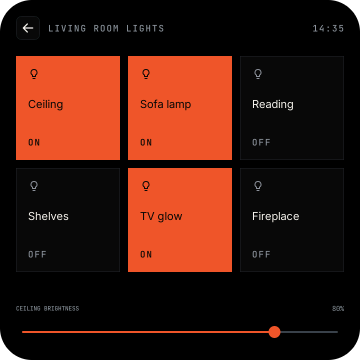
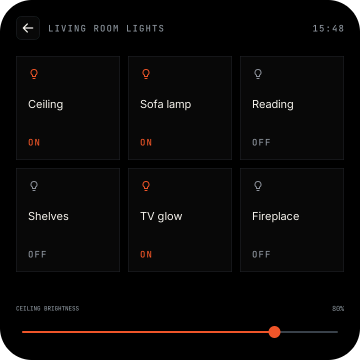
Light cards keep the card surface; taps paint in the panel's own theme and accent
- Entity tile: back to the approved look. On shows in the icon (accent) and the
  state (accent text) on the normal card surface; no accent fill. The contrast
  pairs go back to match.
- A tap or an update painted from the global stage theme, not the panel's look:
  on a panel set to another theme an off card drew the other theme's surface
  (black on a light panel), and a card tapped on after an accent change kept
  the default accent. A panel (one device) now keeps fw::T on its look after
  every build and on a theme or accent change, so every component's later paint
  uses the current colours; fw::theme_of(obj) gives the theme an object was
  built in, and the entity tile uses it.
- Functional tests: on and off keep the surface (update and taps both ways);
  a panel theme unlike the stage keeps the panel's surface; on -> off -> another
  accent -> on shows the new accent, and a card lit before the change follows it.
- Docs: the living room lights example screenshot again; Updates entry.

Changed region(s): [[0.0306, 0.1528, 0.6417, 0.7639], [0.8861, 0.0611, 0.9472, 0.0917]]

diff --git a/renderer/components/entity_tile.cpp b/renderer/components/entity_tile.cpp
@@ -3,14 +3,12 @@
 // agent Tile (the same box, padding, press look and two-line title), with an entity icon in place of the mascot.
 //   box      lay::tile_w x tile_h (208 x 208 / 136 x 136), surface fill, 1 px line border, radius rad::tile,
 //            padding lay::tile_pad - hair (children count from the outer edge, as the Tile); flex column
-//   on       lit: the box filled st::on_fill (accent, = the slider fill) with an accent border, icon / name / status in
-//            st::on_label (on-accent); pressed while on = accent-press
-//   icon     ic::icon (24 / 16): text-dim, on-accent while on; top-left on the padding line
+//   icon     ic::icon (24 / 16): text-dim, or st::on_mark (accent) while on; top-left on the padding line
 //   (grow)
 //   label    screen type body, text, up to two lines in a box of 2 x the body box (Tile title), ellipsis
 //   gap      space 5 (16 / 12, Tile)
-//   status   type label (caps), one line, a fixed box: the state ("Off", "64%", "Open"); on-accent while on, else
-//            text-dim
+//   status   type label (caps), one line, a fixed box: the state ("Off", "64%", "Open"); st::on_ink (accent-text) while
+//            on, else text-dim
 // Props: icon (a UI or screen icon name), label, status, on (bool), act toggle | open | none (what a tap does: the
 // sound and the instant look; none = read-only, a Home sensor tile: not clickable, no press look), state default | pressed | unavailable.
 // Tap (states.json): act toggle = the tile shows the other side at once (Motion toggle fade, like a tap on a Toggle)
@@ -42,23 +40,19 @@ lv_obj_t *part(lv_obj_t *c, int i) { return lv_obj_get_child(c, i); }
 // the look the props ask for: user flag USER_3 = on
 bool is_on(lv_obj_t *c) { return lv_obj_has_flag(c, LV_OBJ_FLAG_USER_3); }
 void paint(lv_obj_t *c, bool on, bool quiet) {
-  const fw::Theme &t = *fw::T;
+  const fw::Theme &t = *fw::theme_of(c);  // a tap / update paints after the build: the tile's own theme, not fw::T
   lv_obj_set_flag(c, LV_OBJ_FLAG_USER_3, on);
   if (lv_obj_has_state(c, ST_OFF)) return;
-  // on = lit: filled st::on_fill (accent, as the slider fill), every ink st::on_label (on-accent); pressed = accent-press
-  const lv_color_t ic = on ? fw::st::on_label(t) : t.text_dim, tx = on ? fw::st::on_label(t) : t.text_dim;
-  const lv_color_t ti = on ? fw::st::on_label(t) : t.text;
-  const bool p_fill = !lv_obj_has_flag(c, LV_OBJ_FLAG_USER_1);  // USER_1 = press style "border" (no press fill)
-  auto apply = [&] {
+  const lv_color_t ic = on ? fw::st::on_mark(t) : t.text_dim, tx = on ? fw::st::on_ink(t) : t.text_dim;
+  if (quiet) {
     fw::icon_colour(part(c, 0), ic);
-    lv_obj_set_style_text_color(part(c, 2), ti, 0);
     lv_obj_set_style_text_color(part(c, 4), tx, 0);
-    lv_obj_set_style_bg_color(c, on ? fw::st::on_fill(t) : t.surface, 0);
-    lv_obj_set_style_border_color(c, on ? fw::st::on_fill(t) : t.line, 0);
-    lv_obj_set_style_bg_color(c, on ? t.accent_press : p_fill ? fw::st::pressed_tint(t) : t.surface, LV_STATE_PRESSED);
-  };
-  if (quiet) { apply(); return; }
-  fw::st::restyle(c, apply);
+    return;
+  }
+  fw::st::restyle(c, [&] {
+    fw::icon_colour(part(c, 0), ic);
+    lv_obj_set_style_text_color(part(c, 4), tx, 0);
+  });
 }
 // on: a bool, or a state word "on" (a bind's map: a cover's open)
 bool on_of(fw::Props p) { return p["on"].is<bool>() ? p["on"].as<bool>() : !strcmp(p["on"] | "", "on"); }
@@ -82,7 +76,6 @@ void fill(lv_obj_t *c, fw::Props p) {
   const lv_style_selector_t SEL[3] = {0, LV_STATE_PRESSED, ST_OFF};
   const char *press = p["press"] | fw::st::PRESS_STYLE;
   const bool p_fill = strcmp(press, "border") != 0, p_border = strcmp(press, "fill") != 0;
-  lv_obj_set_flag(c, LV_OBJ_FLAG_USER_1, !p_fill);
   const lv_color_t BG[3] = {t.surface, p_fill ? fw::st::pressed_tint(t) : t.surface, t.surface};
   const lv_color_t BD[3] = {t.line, p_border ? fw::st::pressed_tint_line(t) : fw::st::pressed_line(t), t.line};
   for (int i = 0; i < 3; i++) {

diff --git a/renderer/core/device.cpp b/renderer/core/device.cpp
@@ -187,7 +187,7 @@ void run(lv_timer_t *t) {
   show(d, d->stack.back(), items);
   const char *tr = setting("transition");
   if (!items.empty() && !(tr && !strcmp(tr, "instant"))) rise(items.data(), (int) items.size(), home_dir);
-  T = was;
+  T = devices.size() == 1 ? d->theme : was;  // a panel (one device): fw::T stays its look for taps / fades
   emit(d->root, "screen", base_of(d->stack.back()).c_str());  // the host may mirror it (URL, HA); not a tap
 }
 void queue(lv_obj_t *in, Op op, const char *id) {
@@ -282,7 +282,7 @@ void restyle_now(Device *d) {
   T = d->theme;
   std::vector<lv_obj_t *> items;
   show(d, d->stack.back(), items);
-  T = was;
+  T = devices.size() == 1 ? d->theme : was;  // a panel (one device): fw::T stays its look for taps / fades
   root = d->screen && lv_obj_get_child_count(d->screen) ? lv_obj_get_child(d->screen, 0) : nullptr;
   if (root && idx >= 0 && idx < (int32_t) lv_obj_get_child_count(root) && y > 0) {
     lv_obj_t *k = lv_obj_get_child(root, idx);
@@ -316,6 +316,7 @@ void apply(int k, From from) {
       const Theme *t = look(d->stage);
       if (t != d->theme) {
         d->theme = t;
+        if (devices.size() == 1) T = t;  // taps / fades paint from fw::T after the build: the panel's look now
         if (!d->restyle) d->restyle = lv_timer_create(restyle_tick, 30, d);
         d->restyle_at = lv_tick_get();
         continue;  // the rebuild shows every value anyway
@@ -331,7 +332,7 @@ void apply(int k, From from) {
       Quiet q;
       update_child(find("settings"), root, p.as<Props>());
     }
-    T = was;
+    T = devices.size() == 1 ? d->theme : was;  // a panel (one device): fw::T stays its look for taps / fades
   }
 }
 }  // namespace
@@ -375,8 +376,12 @@ lv_obj_t *mount(lv_obj_t *parent, const char *start) {
   d->stack.push_back(s);
   std::vector<lv_obj_t *> items;
   show(d, s, items);  // the first screen cut in (no rise: the panel just shows it)
-  T = was;
+  T = devices.size() == 1 ? d->theme : was;  // a panel (one device): fw::T stays its look for taps / fades
   return d->root;
+}
+const Theme *theme_at(lv_obj_t *o) {
+  for (Device *d : devices) if (d->root == o) return d->theme;
+  return nullptr;
 }
 void toast(Props t) {
   const bool top = store().v[index_of("toastPosition")] != "bottom";
@@ -385,7 +390,7 @@ void toast(Props t) {
     const Theme *was = T;
     T = d->theme;  // built in the device's look (fw::T is global)
     toasts::push(d->toasts, t, top);
-    T = was;
+    T = devices.size() == 1 ? d->theme : was;  // a panel (one device): fw::T stays its look for taps / fades
   }
 }
 void reload(const char *id) {

diff --git a/renderer/core/fw_core.cpp b/renderer/core/fw_core.cpp
@@ -373,6 +373,15 @@ void guard_taps() {  // every pointer indev once (the WASM stages and the panel'
   }
 }
 }  // namespace
+// the theme o was built in: its device's look (dev::theme_at), else the stage it was built on, else fw::T. For code that
+// paints after the build (a tap, an update): fw::T is global and then holds whichever stage was built last.
+const Theme *theme_of(lv_obj_t *o) {
+  for (lv_obj_t *x = o; x; x = lv_obj_get_parent(x)) {
+    if (const Theme *d = dev::theme_at(x)) return d;
+    if (Built *b = built_of(x, false); b && b->t) return b->t;
+  }
+  return T;
+}
 
 // clean `scr`, make it the Facet screen (bg token, flex column, centred) and build `comp` with `props` on it
 const char *render(lv_obj_t *scr, const char *comp, const char *props, bool light, int accent) {

diff --git a/renderer/core/device.h b/renderer/core/device.h
@@ -65,6 +65,7 @@ void settings_json(std::string &out);
 std::string restore(const char *json, From from);  // a backup's values through set(); "" = ok, else the first error
 void set_daylight(int day);                          // the sun for theme auto: 1 day, 0 night, -1 unknown
 const Theme *look(const Theme *stage);               // the theme the device shows over a stage theme
+const Theme *theme_at(lv_obj_t *o);                  // o is a device root: the look it is built in, else nullptr
 void on_look(void (*cb)());  // the look may have changed (theme / accent set, the sun): hosts redraw what they show
 
 // hardware button (a panel's physical key, e.g. the Waveshare's BOOT key; Darren 2026-10-24): the "Contextual" action.

diff --git a/renderer/core/fw.h b/renderer/core/fw.h
@@ -25,6 +25,8 @@ namespace fw {
 extern const Theme *T;  // the theme of the stage being built
 // any theme (e.g. to show dark and light side by side); accent_set = index into tokens::ACCENTS, <0 = default
 const Theme *theme(bool light, int accent_set = -1);
+// the theme an object was built in (its device's look, else its stage's): use it, not fw::T, when painting after the build
+const Theme *theme_of(lv_obj_t *o);
 
 #ifdef FW_1X
 constexpr float D = 1.0f;

diff --git a/site/src/content/updates/2026-10-26-light-cards-colour.md b/site/src/content/updates/2026-10-26-light-cards-colour.md
@@ -1,0 +1,13 @@
+---
+title: "Light cards keep the card colour"
+date: "2026-10-26"
+time: "18:30"
+kind: "Fixed"
+image: "2026-10-26-light-cards.png"
+alt: "The living room lights example: on cards show an accent icon and level on the normal card surface"
+links: [["Example screens", "ai/#examples"]]
+---
+
+A light card that is on no longer fills with the accent: the card keeps its normal surface, and the icon and level
+show that it is on. On a panel whose theme or accent differs from the default, a tapped card now paints in the panel's
+own colours, so an off card is never black and a new accent shows on every card straight away.
